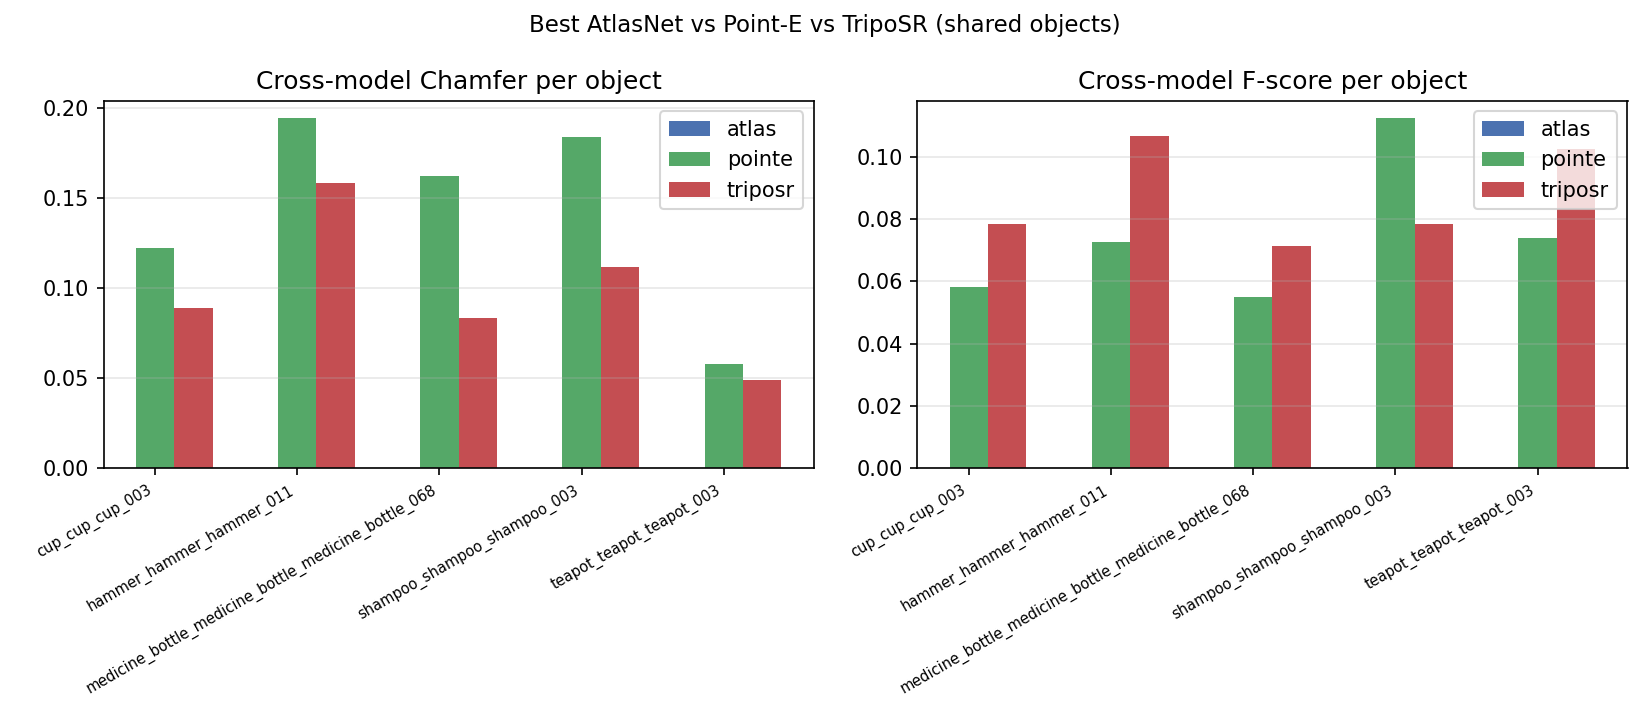
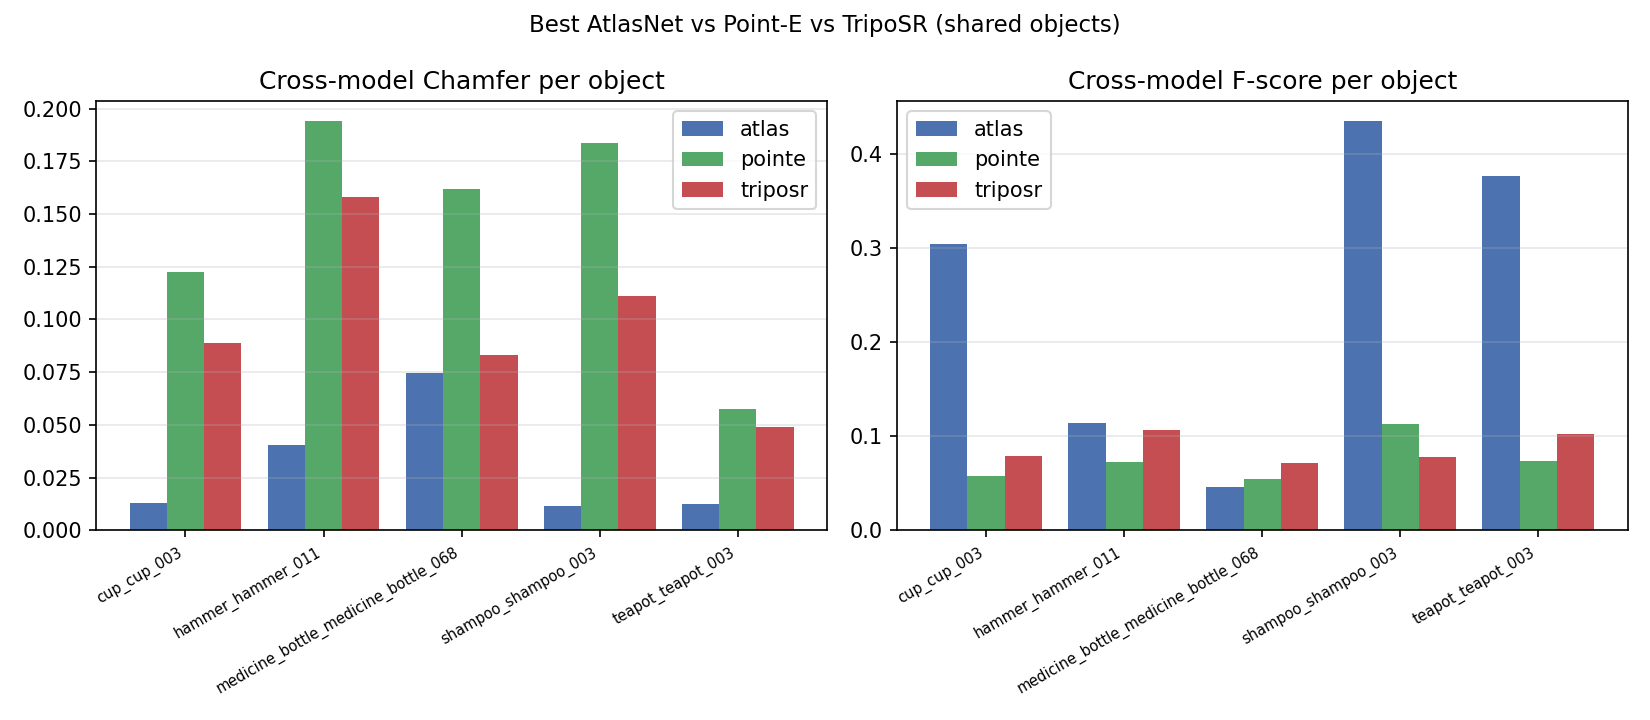
Fix cross-table join (doubled object-id dialect) + final aggregation

diff --git a/nesegemaa/build_final.py b/nesegemaa/build_final.py
@@ -81,12 +81,23 @@ def main():
         NES / "ablation_triposr.csv", "triposr")
 
     # ---- cross table: per-object join on shared panel objects ----
+    # Object-id dialects differ by track: atlas stores the bare render stem
+    # ("cup_003") while pointe/triposr doubled it ("cup_cup_003"). Normalize
+    # by collapsing exactly one doubled "cat_cat_" prefix.
     import csv as _csv
+
+    def _norm(cat, obj):
+        cat, obj = str(cat), str(obj)
+        dbl = cat + "_" + cat + "_"
+        if obj.startswith(dbl):
+            return (cat, obj[len(cat) + 1:])
+        return (cat, obj)
+
     atlas_qm = {}
     for qp in sorted((ROOT / "results" / "atlasnet").glob("*/qual_metrics.json")):
         try:
             for r in json.loads(Path(qp).read_text()):
-                atlas_qm.setdefault((r["category"], r["object"]), []).append(
+                atlas_qm.setdefault(_norm(r["category"], r["object"]), []).append(
                     (qp.parent.name, r["chamfer"], r["fscore"]))
         except Exception:
             pass
@@ -96,7 +107,7 @@ def main():
             with open(rp) as f:
                 for r in _csv.DictReader(f):
                     if rp.stem == "results":
-                        pointe_pc[(r["category"], r["object"])] = (
+                        pointe_pc[_norm(r["category"], r["object"])] = (
                             float(r["chamfer"]), float(r["fscore"]))
         except Exception:
             pass
@@ -105,7 +116,7 @@ def main():
             with open(rp) as f:
                 for r in _csv.DictReader(f):
                     if rp.stem == "results":
-                        tripoSR_pc[(r["category"], r["object"])] = (
+                        tripoSR_pc[_norm(r["category"], r["object"])] = (
                             float(r["chamfer"]), float(r["fscore"]))
         except Exception:
             pass

diff --git a/nesegemaa/REPORT.md b/nesegemaa/REPORT.md
@@ -59,11 +59,11 @@ Protocol (all numbers): splits.json test lists, view `00.png` unless noted, Unit
 
 | object | atlas_run | atlas_ch | atlas_f | pointe_ch | pointe_f | triposr_ch | triposr_f |
 | --- | --- | --- | --- | --- | --- | --- | --- |
-| cup_cup_cup_003 | a2_p25_sphere_s7 | None | None | 0.12231496036544376 | 0.058212 | 0.0889766796806367 | 0.078613 |
-| hammer_hammer_hammer_011 | a2_p25_sphere_s7 | None | None | 0.19395787852503654 | 0.072671 | 0.158284738432672 | 0.106896 |
-| medicine_bottle_medicine_bottle_medicine_bottle_068 | a2_p25_sphere_s7 | None | None | 0.16207312387126338 | 0.05494 | 0.08331780645008555 | 0.071276 |
-| shampoo_shampoo_shampoo_003 | a2_p25_sphere_s7 | None | None | 0.18389601957023 | 0.112409 | 0.11138122294242224 | 0.078353 |
-| teapot_teapot_teapot_003 | a2_p25_sphere_s7 | None | None | 0.05748694426358795 | 0.074082 | 0.04904745994546364 | 0.10268 |
+| cup_cup_003 | a2_p25_sphere_s7 | 0.01271540539993973 | 0.30408388184934637 | 0.12231496036544376 | 0.058212 | 0.0889766796806367 | 0.078613 |
+| hammer_hammer_011 | a2_p25_sphere_s7 | 0.04039657617589024 | 0.11378251884741587 | 0.19395787852503654 | 0.072671 | 0.158284738432672 | 0.106896 |
+| medicine_bottle_medicine_bottle_068 | a2_p25_sphere_s7 | 0.07484982794340346 | 0.04558537024685491 | 0.16207312387126338 | 0.05494 | 0.08331780645008555 | 0.071276 |
+| shampoo_shampoo_003 | a2_p25_sphere_s7 | 0.011733729480746155 | 0.43445457075300914 | 0.18389601957023 | 0.112409 | 0.11138122294242224 | 0.078353 |
+| teapot_teapot_003 | a2_p25_sphere_s7 | 0.012690148160550637 | 0.3760394522053049 | 0.05748694426358795 | 0.074082 | 0.04904745994546364 | 0.10268 |
 
 ## Interpretation
 
